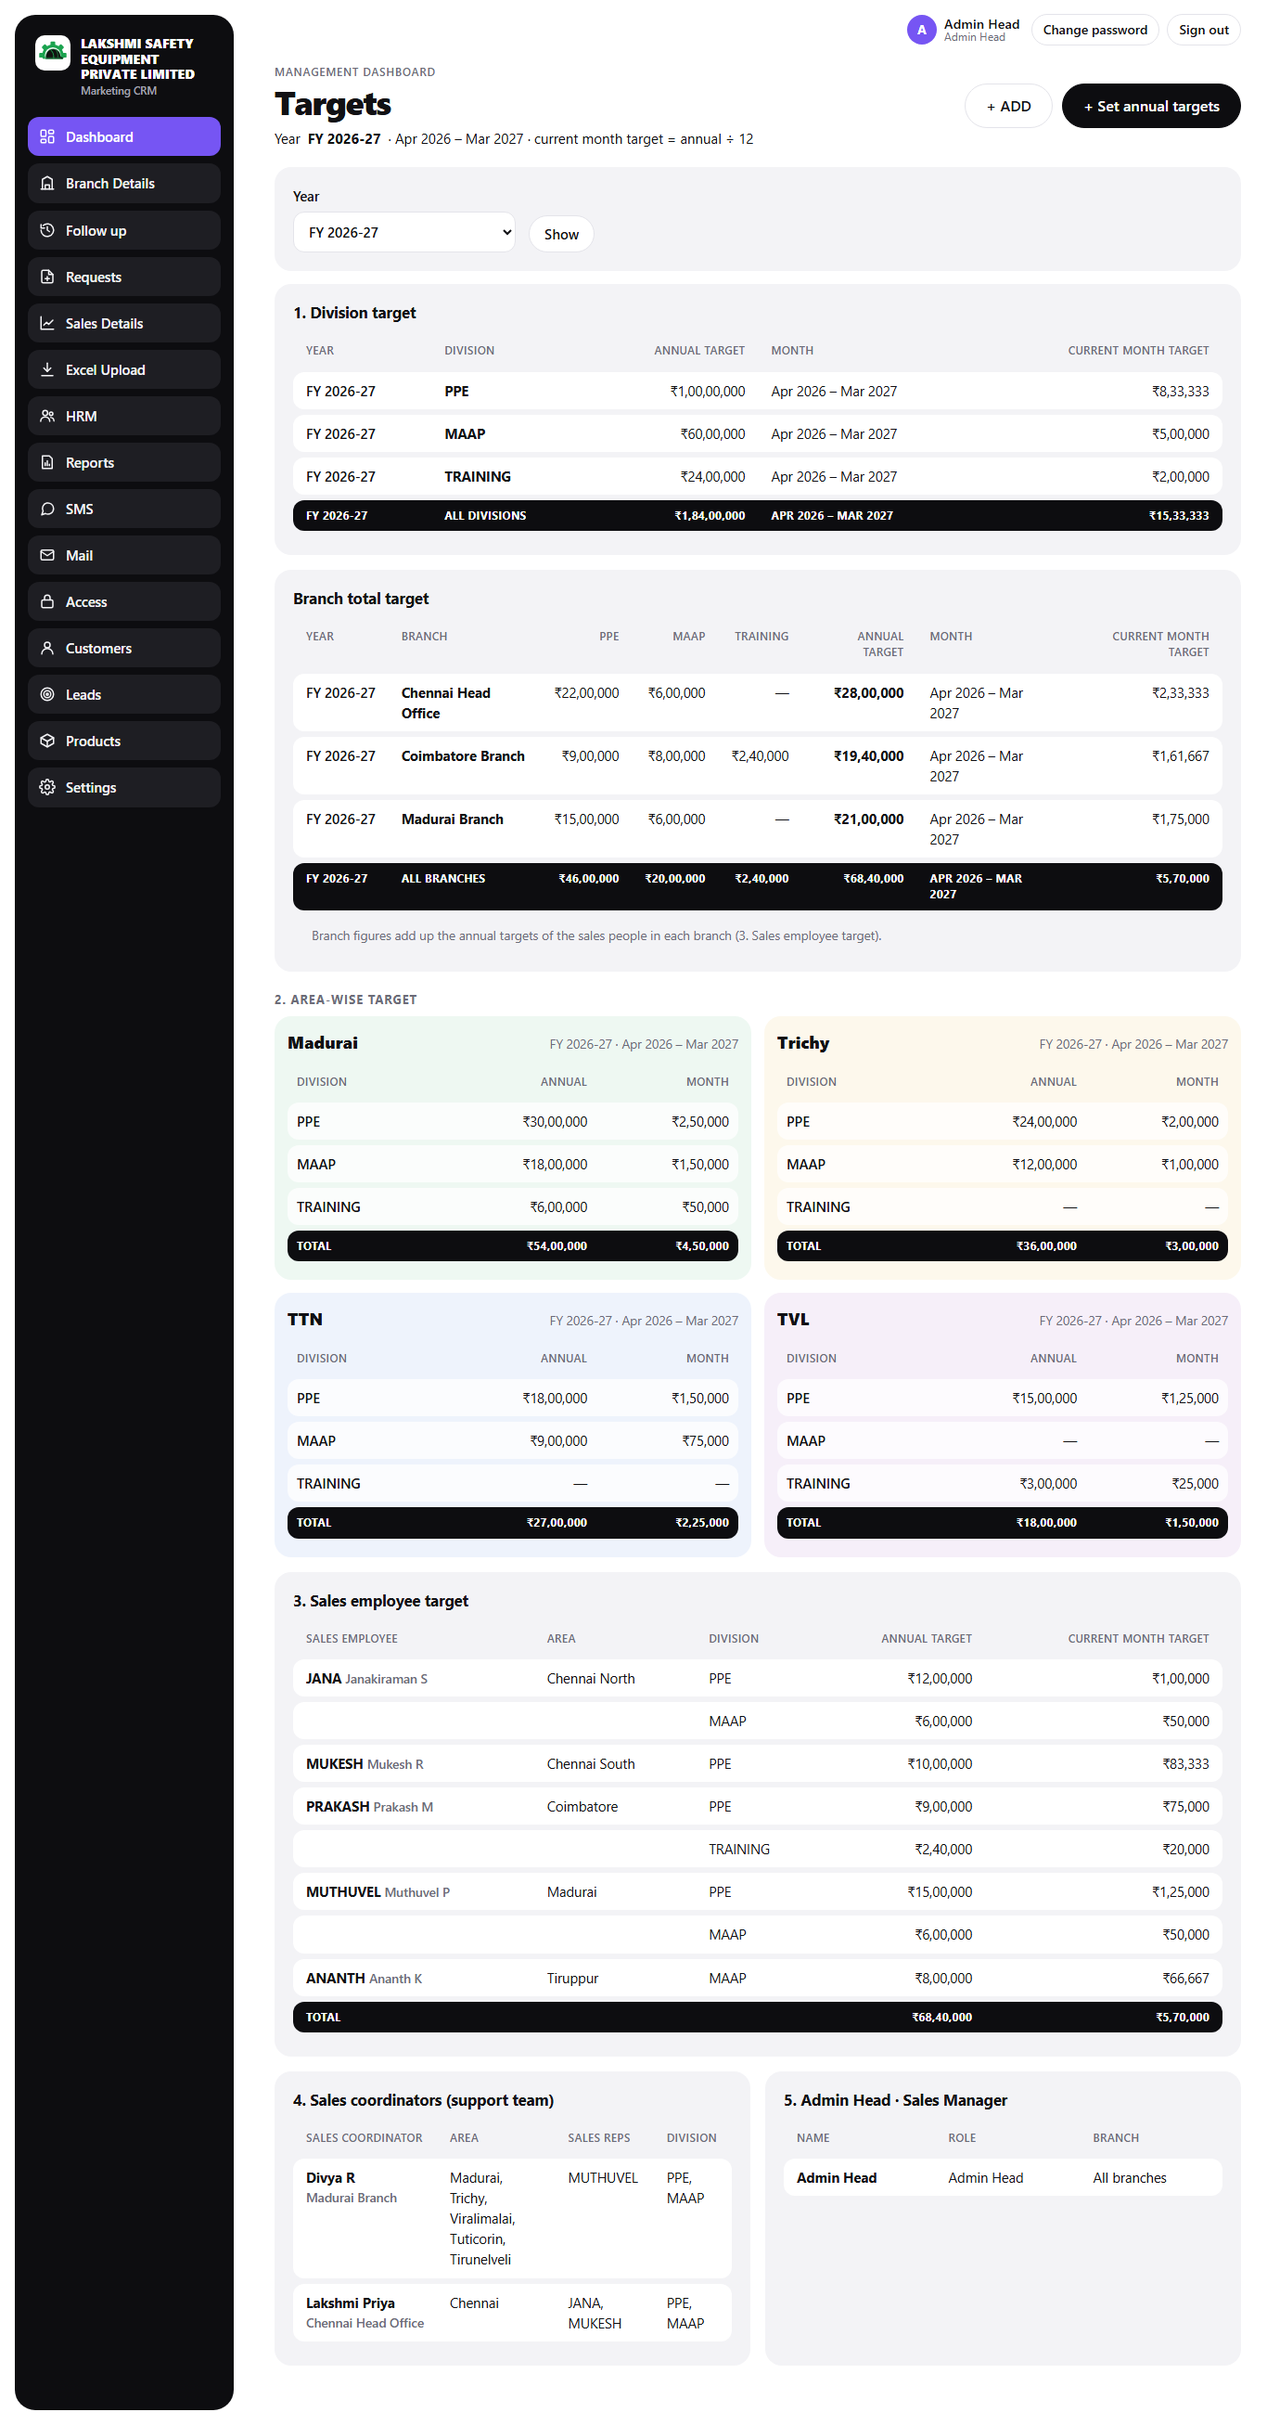
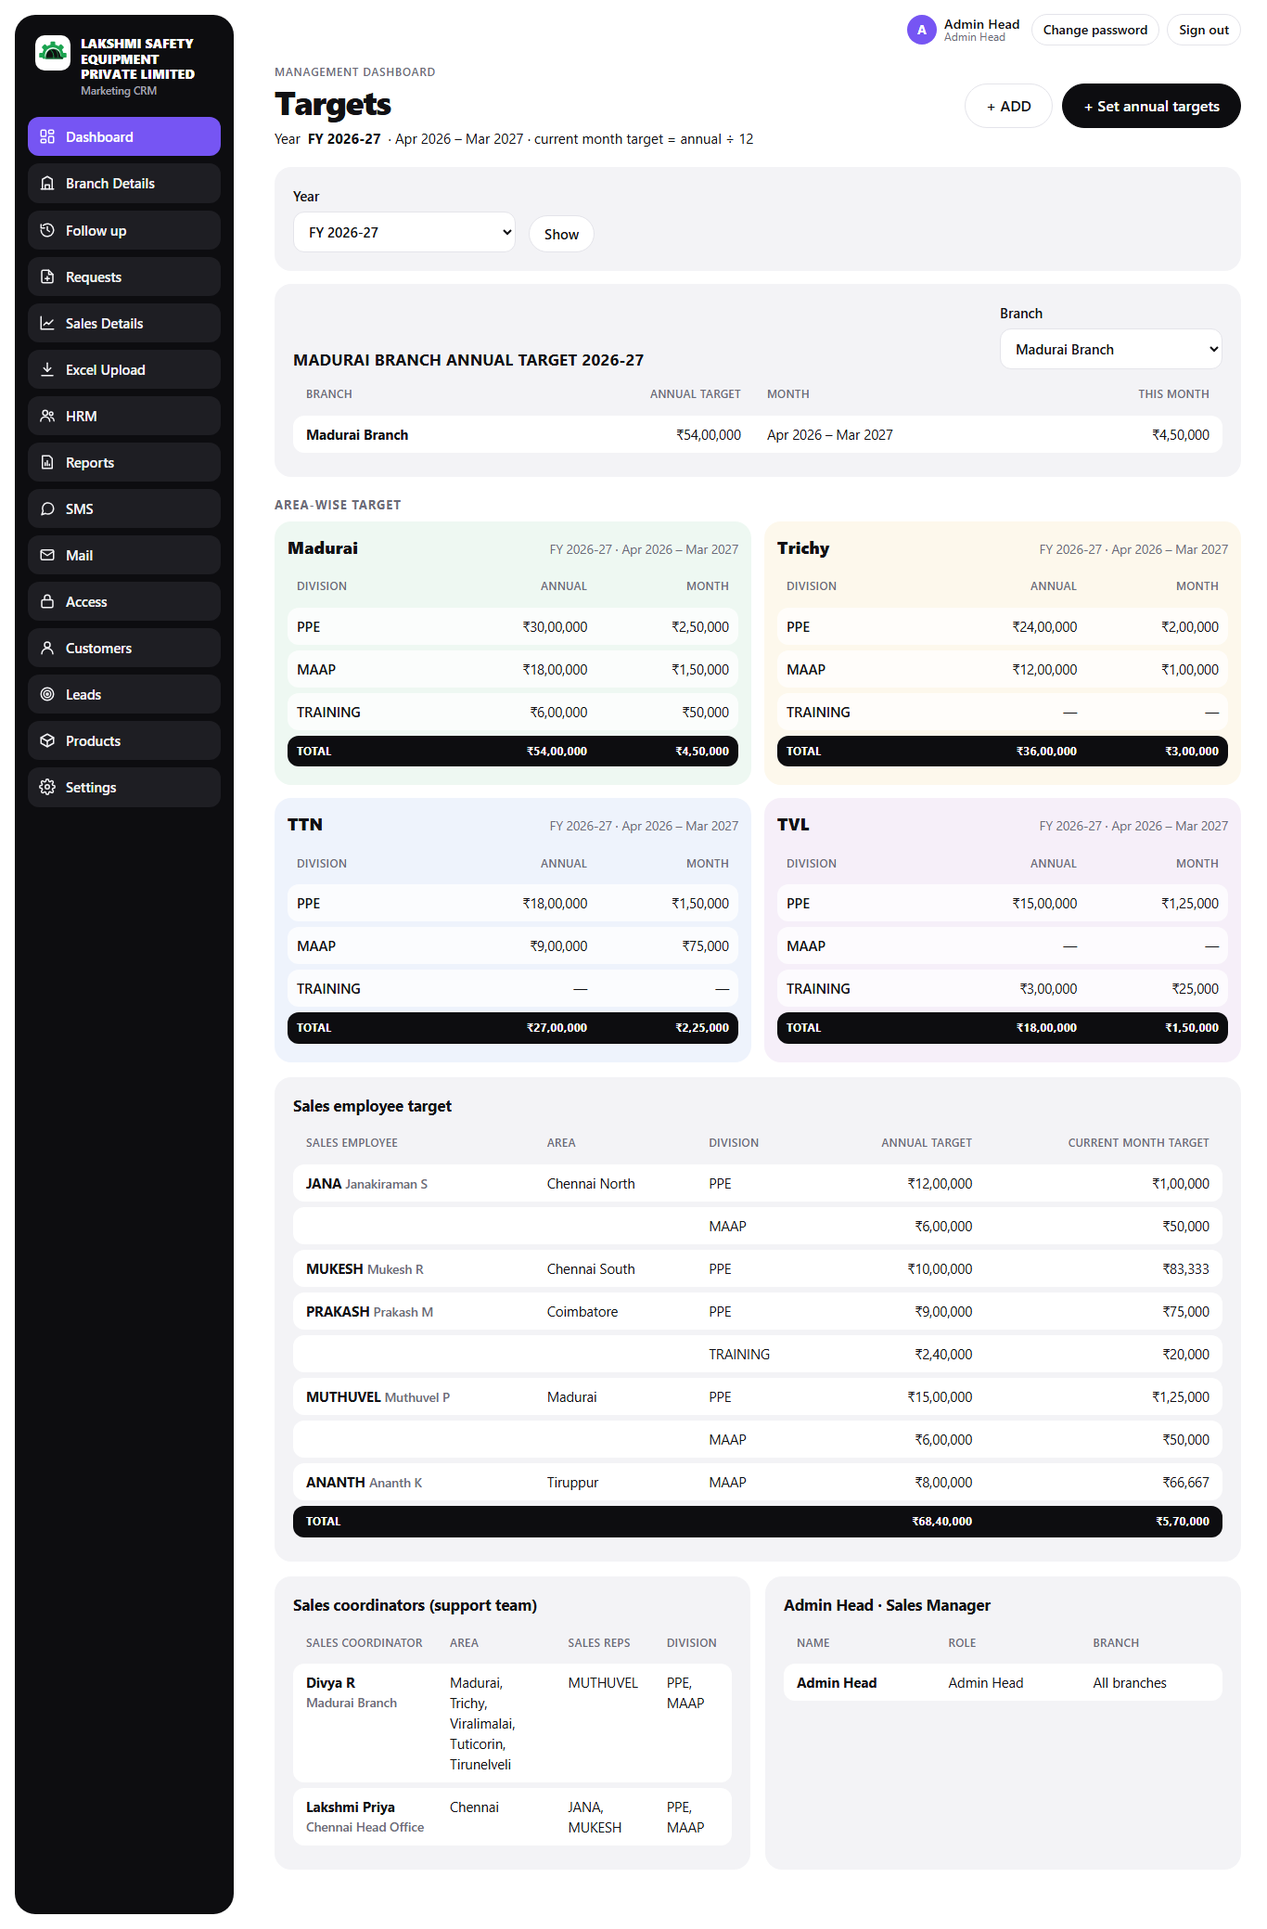
feat: dashboard shows <BRANCH> BRANCH ANNUAL TARGET; division and branch-total boxes removed
Branch select box -> 'MADURAI BRANCH ANNUAL TARGET 2026-27' with Branch, Annual
target, Month (Apr-Mar) and This month (annual / 12); All branches shows every
branch with a total. Branch annual targets are typed in + Set annual targets
(branch section replaces the division section). annual_targets gains branch
level; migration tested against the upgrade path.

diff --git a/public/assets/css/app.css b/public/assets/css/app.css
@@ -984,3 +984,7 @@ body.minimal .topbar .brand { display: inline-flex; color: var(--text); font-wei
 @media (min-width: 1750px) { .tg-areas { grid-template-columns: repeat(4, minmax(0, 1fr)); } }
 @media (max-width: 700px) { .tg-areas { grid-template-columns: 1fr; } }
 .tg-area .table.compact td, .tg-area .table.compact th { padding-left: 10px; padding-right: 10px; }
+
+.tg-branch-head { display: flex; justify-content: space-between; align-items: flex-end; gap: 12px; flex-wrap: wrap; margin-bottom: 4px; }
+.tg-branch-head .card-title { margin: 0; letter-spacing: .02em; }
+.tg-branch-pick .field { min-width: 240px; }

diff --git a/app/Views/dashboard/targets.php b/app/Views/dashboard/targets.php
@@ -8,9 +8,11 @@
 /** @var list<array<string, mixed>> $coordinators */
 /** @var list<array<string, mixed>> $leaders */
 /** @var bool $canEdit */
-/** @var list<array<string, mixed>> $branchTotals */
+/** @var list<array<string, mixed>> $branches */
+/** @var int $branch */
 /** @var bool $canEntry */
-$branchTotals ??= [];
+$branches ??= [];
+$branch ??= 0;
 $canEntry ??= false;
 use App\Modules\Dashboard\TargetController;
 
@@ -35,6 +37,7 @@ ob_start();
 <?php require dirname(__DIR__) . '/partials/flash.php'; ?>
 
 <form method="get" action="<?= e(url('/')) ?>" class="card fu-filters" aria-label="Year">
+    <?php if ($branch): ?><input type="hidden" name="branch" value="<?= e($branch) ?>"><?php endif; ?>
     <label class="field"><span>Year</span>
         <select name="fy" data-autosubmit>
             <?php foreach ($fyList as $f): ?><option value="<?= e($f['id']) ?>"<?= (int) $f['id'] === (int) $fy['id'] ? ' selected' : '' ?>><?= e($f['label']) ?></option><?php endforeach; ?>
@@ -42,41 +45,39 @@ ob_start();
     <div class="form-actions"><button type="submit" class="btn">Show</button></div>
 </form>
 
-<!-- 1. Division -->
+<!-- Branch annual target (choose a branch) -->
+<?php
+$chosen = null;
+foreach ($branches as $br) { if ((int) $br['id'] === $branch) { $chosen = $br; } }
+$shown = $chosen ? [$chosen] : $branches;
+?>
 <section class="card tg-box">
-    <h2 class="card-title">1. Division target</h2>
+    <div class="tg-branch-head">
+        <h2 class="card-title"><?= e(strtoupper($chosen ? $chosen['name'] : 'All branches')) ?> ANNUAL TARGET <?= e(str_replace('FY ', '', $fy['label'])) ?></h2>
+        <form method="get" action="<?= e(url('/')) ?>" class="tg-branch-pick">
+            <input type="hidden" name="fy" value="<?= e($fy['id']) ?>">
+            <label class="field"><span>Branch</span>
+                <select name="branch" data-autosubmit>
+                    <option value="">All branches</option>
+                    <?php foreach ($branches as $br): ?><option value="<?= e($br['id']) ?>"<?= (int) $br['id'] === $branch ? ' selected' : '' ?>><?= e($br['name']) ?></option><?php endforeach; ?>
+                </select></label>
+        </form>
+    </div>
     <div class="table-scroll"><table class="table compact">
-        <thead><tr><th>Year</th><th>Division</th><th class="right">Annual target</th><th>Month</th><th class="right">Current month target</th></tr></thead>
+        <thead><tr><th>Branch</th><th class="right">Annual target</th><th>Month</th><th class="right">This month</th></tr></thead>
         <tbody>
-        <?php $tot = 0; foreach ($divisions as $d): $a = $val("division:{$d['id']}:0:0"); $tot += $a; ?>
-            <tr><td><?= e($fy['label']) ?></td><td><b><?= e($d['name']) ?></b></td><td class="right num"><?= e($money($a)) ?></td><td><?= e($months) ?></td><td class="right num"><?= e($month($a)) ?></td></tr>
+        <?php $bsum = 0; foreach ($shown as $br): $a = $val("branch:0:0:0:{$br['id']}"); $bsum += $a; ?>
+            <tr><td><b><?= e($br['name']) ?></b></td><td class="right num"><?= e($money($a)) ?></td><td><?= e($months) ?></td><td class="right num"><?= e($month($a)) ?></td></tr>
         <?php endforeach; ?>
         </tbody>
-        <tfoot><tr class="total-row"><th><?= e($fy['label']) ?></th><th>All divisions</th><th class="right num"><?= e($money($tot)) ?></th><th><?= e($months) ?></th><th class="right num"><?= e($month($tot)) ?></th></tr></tfoot>
+        <?php if (count($shown) > 1): ?>
+        <tfoot><tr class="total-row"><th>All branches</th><th class="right num"><?= e($money($bsum)) ?></th><th><?= e($months) ?></th><th class="right num"><?= e($month($bsum)) ?></th></tr></tfoot>
+        <?php endif; ?>
     </table></div>
-</section>
-
-<!-- Branch total: sum of the sales employees' annual targets in each branch -->
-<section class="card tg-box">
-    <h2 class="card-title">Branch total target</h2>
-    <div class="table-scroll"><table class="table compact">
-        <thead><tr><th>Year</th><th>Branch</th><?php foreach ($divisions as $d): ?><th class="right"><?= e($d['name']) ?></th><?php endforeach; ?><th class="right">Annual target</th><th>Month</th><th class="right">Current month target</th></tr></thead>
-        <tbody>
-        <?php $grand = 0; $gd = []; foreach ($branchTotals as $b): $bt = 0; ?>
-            <tr><td><?= e($fy['label']) ?></td><td><b><?= e($b['name']) ?></b></td>
-                <?php foreach ($divisions as $d): $a = $b['div'][(int) $d['id']] ?? 0; $bt += $a; $gd[(int) $d['id']] = ($gd[(int) $d['id']] ?? 0) + $a; ?><td class="right num"><?= e($money($a)) ?></td><?php endforeach; ?>
-                <td class="right num"><b><?= e($money($bt)) ?></b></td><td><?= e($months) ?></td><td class="right num"><?= e($month($bt)) ?></td></tr>
-        <?php $grand += $bt; endforeach; ?>
-        </tbody>
-        <tfoot><tr class="total-row"><th><?= e($fy['label']) ?></th><th>All branches</th>
-            <?php foreach ($divisions as $d): ?><th class="right num"><?= e($money($gd[(int) $d['id']] ?? 0)) ?></th><?php endforeach; ?>
-            <th class="right num"><?= e($money($grand)) ?></th><th><?= e($months) ?></th><th class="right num"><?= e($month($grand)) ?></th></tr></tfoot>
-    </table></div>
-    <p class="muted small padded">Branch figures add up the annual targets of the sales people in each branch (3. Sales employee target).</p>
 </section>
 
 <!-- 2. Area-wise: one separate box per area -->
-<h2 class="section-title">2. Area-wise target</h2>
+<h2 class="section-title">Area-wise target</h2>
 <div class="tg-areas">
     <?php foreach ($areas as $ar): $at = 0; ?>
     <section class="card tg-area">
@@ -84,7 +85,7 @@ ob_start();
         <table class="table compact">
             <thead><tr><th>Division</th><th class="right">Annual</th><th class="right">Month</th></tr></thead>
             <tbody>
-            <?php foreach ($divisions as $d): $a = $val("area:{$d['id']}:{$ar['id']}:0"); $at += $a; ?>
+            <?php foreach ($divisions as $d): $a = $val("area:{$d['id']}:{$ar['id']}:0:0"); $at += $a; ?>
                 <tr><td><?= e($d['name']) ?></td><td class="right num"><?= e($money($a)) ?></td><td class="right num"><?= e($month($a)) ?></td></tr>
             <?php endforeach; ?>
             </tbody>
@@ -96,7 +97,7 @@ ob_start();
 
 <!-- 3. Sales employees -->
 <section class="card tg-box">
-    <h2 class="card-title">3. Sales employee target</h2>
+    <h2 class="card-title">Sales employee target</h2>
     <?php if (!$employees): ?><p class="empty">No sales employees.</p><?php else: ?>
     <div class="table-scroll"><table class="table compact">
         <thead><tr><th>Sales employee</th><th>Area</th><th>Division</th><th class="right">Annual target</th><th class="right">Current month target</th></tr></thead>
@@ -104,7 +105,7 @@ ob_start();
         <?php $tot = 0; foreach ($employees as $em):
             $rows = [];
             foreach ($divisions as $d) {
-                $a = $val("employee:{$d['id']}:0:{$em['id']}");
+                $a = $val("employee:{$d['id']}:0:{$em['id']}:0");
                 if ($a > 0) { $rows[] = [$d['name'], $a]; $tot += $a; }
             }
             if (!$rows) { $rows[] = ['—', 0]; }
@@ -126,7 +127,7 @@ ob_start();
 <div class="tg-two">
     <!-- 4. Sales coordinators -->
     <section class="card tg-box">
-        <h2 class="card-title">4. Sales coordinators (support team)</h2>
+        <h2 class="card-title">Sales coordinators (support team)</h2>
         <?php if (!$coordinators): ?><p class="empty">No sales coordinators. Set Sales role = Sales Coordinator in HRM.</p><?php else: ?>
         <table class="table compact">
             <thead><tr><th>Sales coordinator</th><th>Area</th><th>Sales reps</th><th>Division</th></tr></thead>
@@ -141,7 +142,7 @@ ob_start();
 
     <!-- 5. Admin Head / Sales Manager -->
     <section class="card tg-box">
-        <h2 class="card-title">5. Admin Head · Sales Manager</h2>
+        <h2 class="card-title">Admin Head · Sales Manager</h2>
         <?php if (!$leaders): ?><p class="empty">No users with these roles yet.</p><?php else: ?>
         <table class="table compact">
             <thead><tr><th>Name</th><th>Role</th><th>Branch</th></tr></thead>

diff --git a/app/Modules/Dashboard/TargetController.php b/app/Modules/Dashboard/TargetController.php
@@ -33,7 +33,7 @@ final class TargetController
             'fyList'   => Database::fetchAll('SELECT id, label FROM financial_years ORDER BY start_date DESC'),
             'canEdit'  => Gate::allows('targets.add', $user),
             'canEntry' => Gate::allowsAny(['daily_entry.add', 'targets.add'], $user),
-            'branchTotals' => self::branchTotals((int) $fy['id'], $user),
+            'branch'   => (int) ($_GET['branch'] ?? 0),
         ] + $data);
     }
 
@@ -85,13 +85,15 @@ final class TargetController
             }
             $wanted[$key] = $parts + ['paise' => $p];
         };
+        foreach (array_column($data['branches'], 'id') as $b) {
+            $read("b{$b}", "branch:0:0:0:{$b}", ['level' => 'branch', 'division' => null, 'area' => null, 'employee' => null, 'branch' => (int) $b]);
+        }
         foreach ($divisions as $d) {
-            $read("d{$d}", "division:{$d}:0:0", ['level' => 'division', 'division' => $d, 'area' => null, 'employee' => null]);
             foreach ($areas as $a) {
-                $read("a{$a}d{$d}", "area:{$d}:{$a}:0", ['level' => 'area', 'division' => $d, 'area' => $a, 'employee' => null]);
+                $read("a{$a}d{$d}", "area:{$d}:{$a}:0:0", ['level' => 'area', 'division' => $d, 'area' => $a, 'employee' => null, 'branch' => null]);
             }
             foreach ($employees as $e) {
-                $read("e{$e}d{$d}", "employee:{$d}:0:{$e}", ['level' => 'employee', 'division' => $d, 'area' => null, 'employee' => $e]);
+                $read("e{$e}d{$d}", "employee:{$d}:0:{$e}:0", ['level' => 'employee', 'division' => $d, 'area' => null, 'employee' => $e, 'branch' => null]);
             }
         }
         foreach ($wanted as $key => $w) {
@@ -122,10 +124,10 @@ final class TargetController
                     continue;
                 }
                 Database::query(
-                    'INSERT INTO annual_targets (financial_year_id, level, division_id, area_id, employee_id, annual_target, created_by, updated_by)
-                     VALUES (?, ?, ?, ?, ?, ?, ?, ?)
+                    'INSERT INTO annual_targets (financial_year_id, level, division_id, branch_id, area_id, employee_id, annual_target, created_by, updated_by)
+                     VALUES (?, ?, ?, ?, ?, ?, ?, ?, ?)
                      ON DUPLICATE KEY UPDATE annual_target = VALUES(annual_target), updated_by = VALUES(updated_by)',
-                    [$fy['id'], $w['level'], $w['division'], $w['area'], $w['employee'], Money::toDecimal($w['paise']), $user['id'], $user['id']]
+                    [$fy['id'], $w['level'], $w['division'], $w['branch'], $w['area'], $w['employee'], Money::toDecimal($w['paise']), $user['id'], $user['id']]
                 );
                 $changed++;
             }
@@ -153,6 +155,8 @@ final class TargetController
         $scope = DataScope::for($user);
         [$ew, $ep] = $scope->where('e.branch_id', 'e.id');
         $divisions = Database::fetchAll("SELECT id, name FROM divisions WHERE status = 'active' ORDER BY id");
+        [$bw, $bp] = $scope->branchListWhere('b.id');
+        $branches = Database::fetchAll("SELECT b.id, b.name FROM branches b WHERE b.deleted_at IS NULL AND b.status = 'active' AND {$bw} ORDER BY b.id", $bp);
         $areas = Database::fetchAll("SELECT id, name FROM sales_areas WHERE status = 'active' ORDER BY id");
         $employees = Database::fetchAll(
             "SELECT e.id, e.name, e.short_name, e.area, b.name AS branch FROM employees e JOIN branches b ON b.id = e.branch_id
@@ -176,26 +180,7 @@ final class TargetController
              FROM users u JOIN roles r ON r.id = u.role_id LEFT JOIN employees e ON e.id = u.employee_id LEFT JOIN branches b ON b.id = e.branch_id
              WHERE u.deleted_at IS NULL AND u.status = 'active' AND r.slug IN ('admin_head', 'sales_manager')
              ORDER BY r.id, u.name");
-        return compact('divisions', 'areas', 'employees', 'map', 'coordinators', 'leaders');
-    }
-
-    /** Annual targets per branch and division (sum of that branch's sales employees). @return list<array{name: string, div: array<int, int>}> */
-    private static function branchTotals(int $fyId, array $user): array
-    {
-        [$bw, $bp] = DataScope::for($user)->branchListWhere('b.id');
-        $out = [];
-        foreach (Database::fetchAll("SELECT b.id, b.name FROM branches b WHERE b.deleted_at IS NULL AND b.status = 'active' AND {$bw} ORDER BY b.id", $bp) as $b) {
-            $out[(int) $b['id']] = ['name' => $b['name'], 'div' => []];
-        }
-        foreach (Database::fetchAll(
-            "SELECT e.branch_id, t.division_id, SUM(t.annual_target) AS total
-             FROM annual_targets t JOIN employees e ON e.id = t.employee_id
-             WHERE t.financial_year_id = ? AND t.level = 'employee' GROUP BY e.branch_id, t.division_id", [$fyId]) as $r) {
-            if (isset($out[(int) $r['branch_id']])) {
-                $out[(int) $r['branch_id']]['div'][(int) $r['division_id']] = Money::fromDb($r['total']);
-            }
-        }
-        return array_values($out);
+        return compact('divisions', 'branches', 'areas', 'employees', 'map', 'coordinators', 'leaders');
     }
 
     /** "Apr 2026 - Mar 2027" for a financial year row. */

diff --git a/app/Views/dashboard/targets_edit.php b/app/Views/dashboard/targets_edit.php
@@ -1,6 +1,7 @@
 <?php
 /** @var array<string, mixed> $fy */
 /** @var list<array<string, mixed>> $divisions */
+/** @var list<array<string, mixed>> $branches */
 /** @var list<array<string, mixed>> $areas */
 /** @var list<array<string, mixed>> $employees */
 /** @var array<string, int> $map */
@@ -33,11 +34,11 @@ ob_start();
     <input type="hidden" name="fy" value="<?= e($fy['id']) ?>">
 
     <section class="card table-card">
-        <h2>1. Division (annual ₹)</h2>
+        <h2>1. Branch annual target (₹)</h2>
         <div class="table-scroll"><table class="table compact sheet-table">
-            <thead><tr><?php foreach ($divisions as $d): ?><th class="right th-sales"><?= e($d['name']) ?></th><?php endforeach; ?><th class="right">All divisions</th></tr></thead>
-            <tbody><tr><?php foreach ($divisions as $d): ?><?= $cell("d{$d['id']}", "division:{$d['id']}:0:0", 'div') ?><?php endforeach; ?>
-                <td class="right num"><b><output data-total-of="div"></output></b></td></tr></tbody>
+            <thead><tr><?php foreach ($branches as $br): ?><th class="right th-sales"><?= e($br['name']) ?></th><?php endforeach; ?><th class="right">All branches</th></tr></thead>
+            <tbody><tr><?php foreach ($branches as $br): ?><?= $cell("b{$br['id']}", "branch:0:0:0:{$br['id']}", 'brs') ?><?php endforeach; ?>
+                <td class="right num"><b><output data-total-of="brs"></output></b></td></tr></tbody>
         </table></div>
     </section>
 
@@ -48,7 +49,7 @@ ob_start();
             <tbody>
             <?php foreach ($areas as $a): ?>
                 <tr><th class="sheet-name"><?= e($a['name']) ?></th>
-                    <?php foreach ($divisions as $d): ?><?= $cell("a{$a['id']}d{$d['id']}", "area:{$d['id']}:{$a['id']}:0", "area{$a['id']}") ?><?php endforeach; ?>
+                    <?php foreach ($divisions as $d): ?><?= $cell("a{$a['id']}d{$d['id']}", "area:{$d['id']}:{$a['id']}:0:0", "area{$a['id']}") ?><?php endforeach; ?>
                     <td class="right num"><b><output data-total-of="area<?= e($a['id']) ?>"></output></b></td></tr>
             <?php endforeach; ?>
             </tbody>
@@ -63,7 +64,7 @@ ob_start();
             <tbody>
             <?php foreach ($employees as $em): ?>
                 <tr><th class="sheet-name"><?= e($em['short_name'] ?: $em['name']) ?><div class="th-sub"><?= e($em['branch']) ?></div></th><td><?= e($em['area'] ?: '—') ?></td>
-                    <?php foreach ($divisions as $d): ?><?= $cell("e{$em['id']}d{$d['id']}", "employee:{$d['id']}:0:{$em['id']}", "emp{$em['id']}") ?><?php endforeach; ?>
+                    <?php foreach ($divisions as $d): ?><?= $cell("e{$em['id']}d{$d['id']}", "employee:{$d['id']}:0:{$em['id']}:0", "emp{$em['id']}") ?><?php endforeach; ?>
                     <td class="right num"><b><output data-total-of="emp<?= e($em['id']) ?>"></output></b></td></tr>
             <?php endforeach; ?>
             </tbody>
